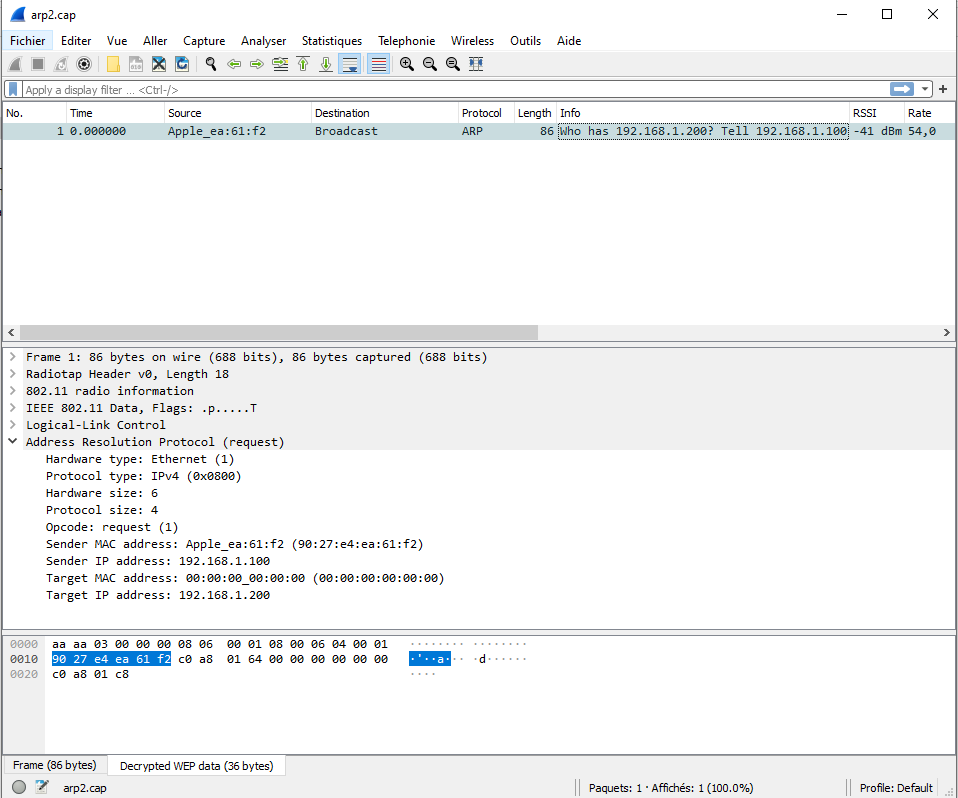
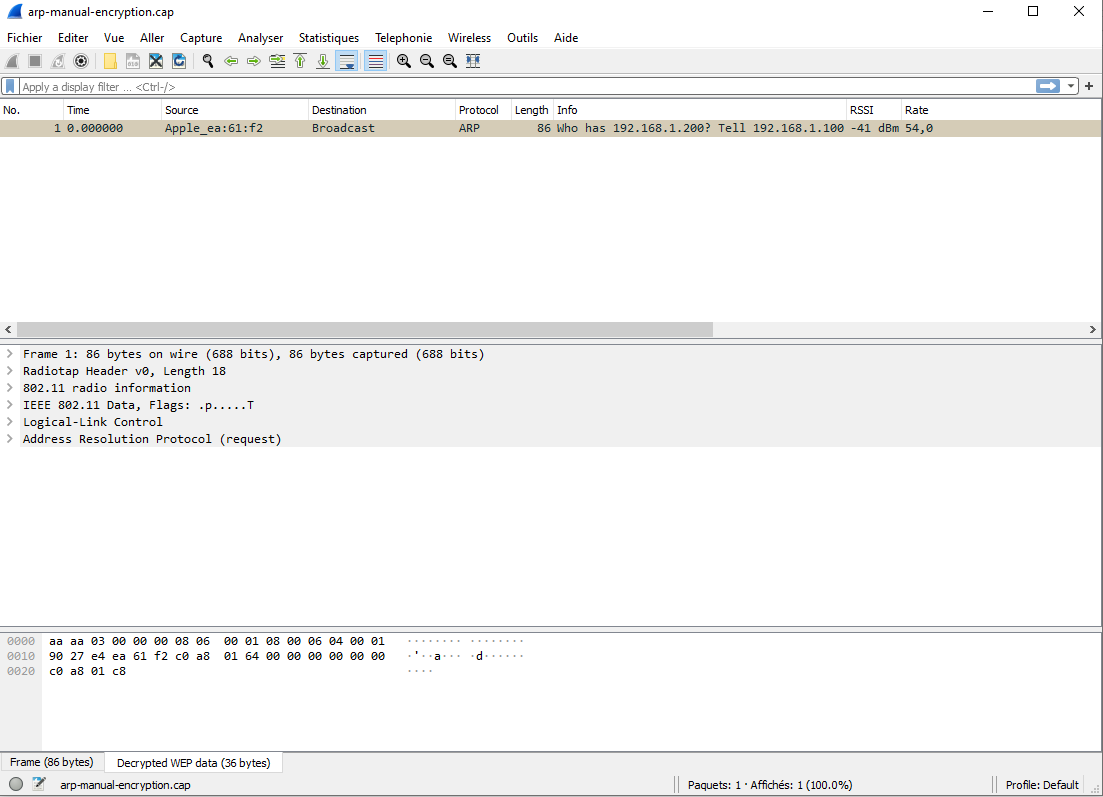
Modified cap files

Changed region(s): [[0.0, 0.0, 1.0, 1.0]]

diff --git a/files/manual-fragmentation.py b/files/manual-fragmentation.py
@@ -1,7 +1,7 @@
 #!/usr/bin/env python
 # -*- coding: utf-8 -*-
 
-""" Manually decrypt a wep message given the WEP key"""
+""" Manually fragment a wep message and encrypt it with a given WEP key"""
 
 __author__ = "Robin Müller and Stéphane Teixeira Carvalho"
 __copyright__ = "Copyright 2017, HEIG-VD"
@@ -13,6 +13,7 @@ from scapy.all import *
 from rc4 import RC4
 import zlib
 from scapy.layers.dot11 import RadioTap
+
 
 def get_icv(message):
     """
@@ -30,6 +31,7 @@ def fragment(msg, n):
     for i in range(0, len(msg), chunkLen):
         yield msg[i:i + chunkLen]
 
+
 # The number of fragments (w/ the current message, possible values are 1, 2, 3, 4)
 NB_FRAGMENTS = 3
 
@@ -37,7 +39,7 @@ NB_FRAGMENTS = 3
 key = b'\xaa\xaa\xaa\xaa\xaa'
 # Message that will be fragmentated. We chose to use the ARP packet from the example
 message = b'\xaa\xaa\x03\x00\x00\x00\x08\x06\x00\x01\x08\x00\x06\x04\x00\x01\x90\x27\xe4\xea\x61\xf2\xc0\xa8\x01\x64\x00\x00\x00\x00\x00\x00\xc0\xa8\x01\xc8'
-# Choosen IV for RC4 in our case the IV 0
+# Chosen IV for RC4 in our case the IV 0
 IV = b'\x00\x00\x00'
 
 # Initialize RC4 with the seed that is composed of the IV and the key
@@ -49,7 +51,7 @@ arp = rdpcap('arp.cap')[0]
 
 """ Send the fragments """
 fragments = list(fragment(message, NB_FRAGMENTS))
-for i in range(0, NB_FRAGMENTS): # Fragment the message
+for i in range(0, NB_FRAGMENTS):  # Fragment the message
     msg = fragments[i]
     # Calculate the icv with CRC
     icv = get_icv(msg)
@@ -69,8 +71,8 @@ for i in range(0, NB_FRAGMENTS): # Fragment the message
     arp.FCfield.MF = i < (NB_FRAGMENTS - 1)
     # As i will start at 0 it will follow the value of the SC (counter of fragments)
     arp.SC = i
-    # To delete the content of arp3.cap if the file exists
+    # To delete the content of arp-manual-fragmentation.cap if the file exists
     if i == 0:
-        wrpcap('arp3.cap', arp, append=False)
+        wrpcap('arp-manual-fragmentation.cap', arp, append=False)
     else:
-        wrpcap('arp3.cap', arp, append=True)
+        wrpcap('arp-manual-fragmentation.cap', arp, append=True)

diff --git a/files/manual-encryption.py b/files/manual-encryption.py
@@ -46,4 +46,4 @@ arp.iv = IV
 arp.icv = struct.unpack('!L', ciphertext[-4:])[0]
 
 # Write the arp packet encrypted in the wireshark file
-wrpcap('arp2.cap', arp, append=False)
+wrpcap('arp-manual-encryption.cap', arp, append=False)
